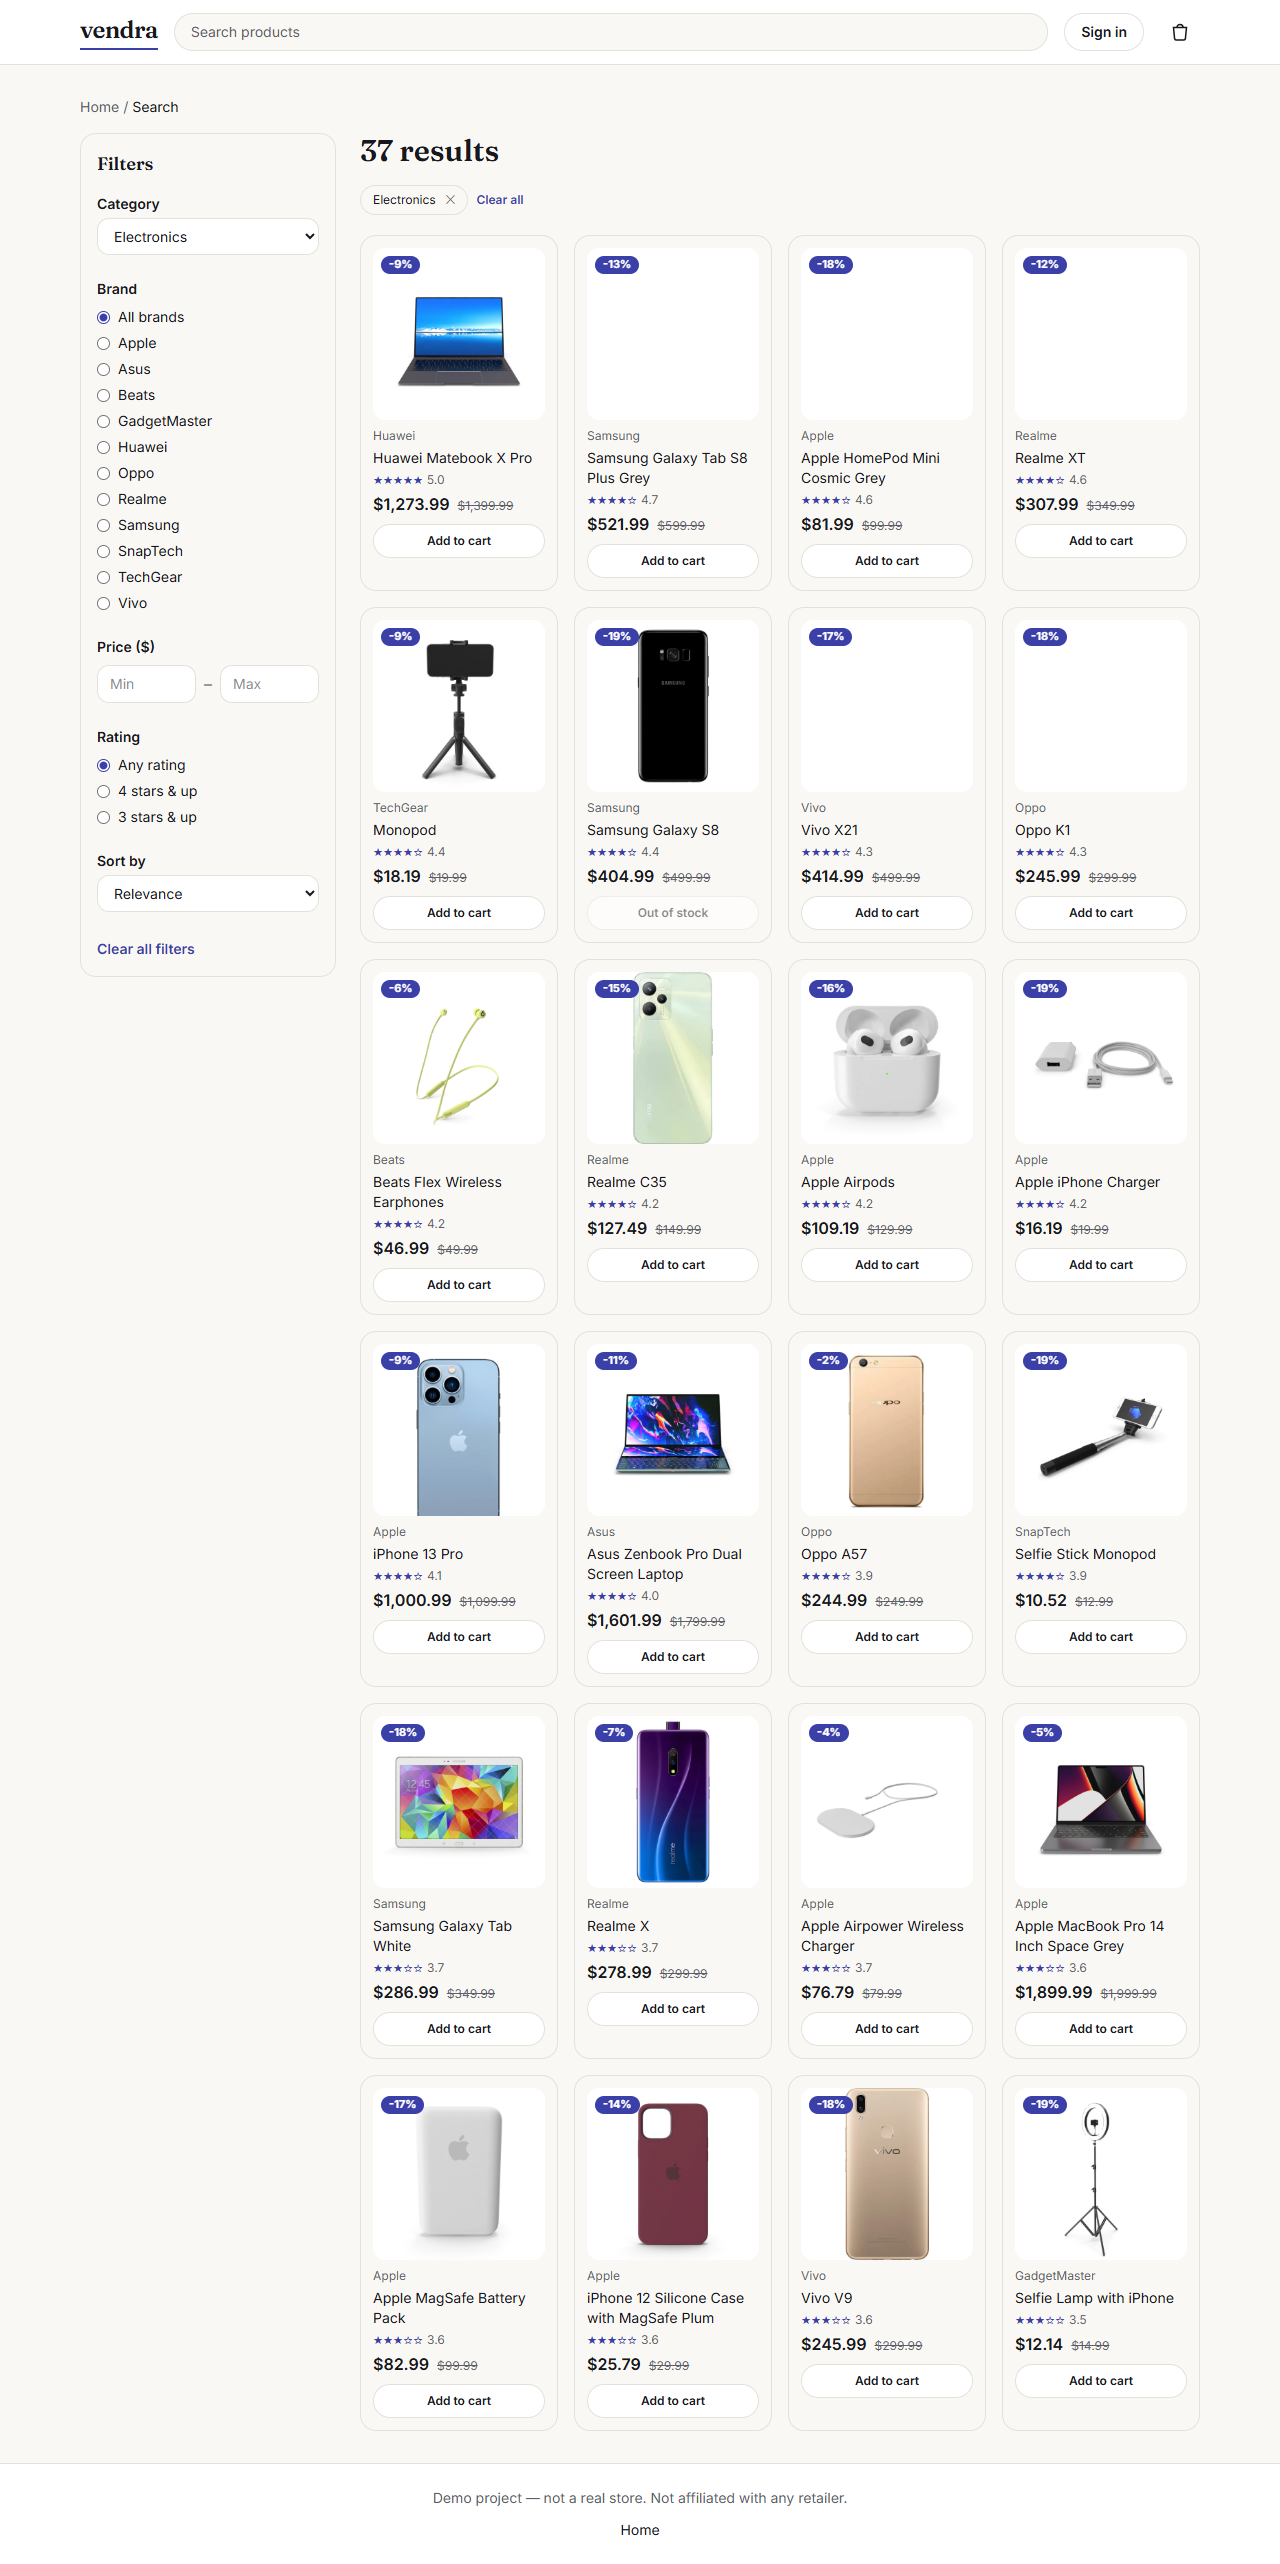
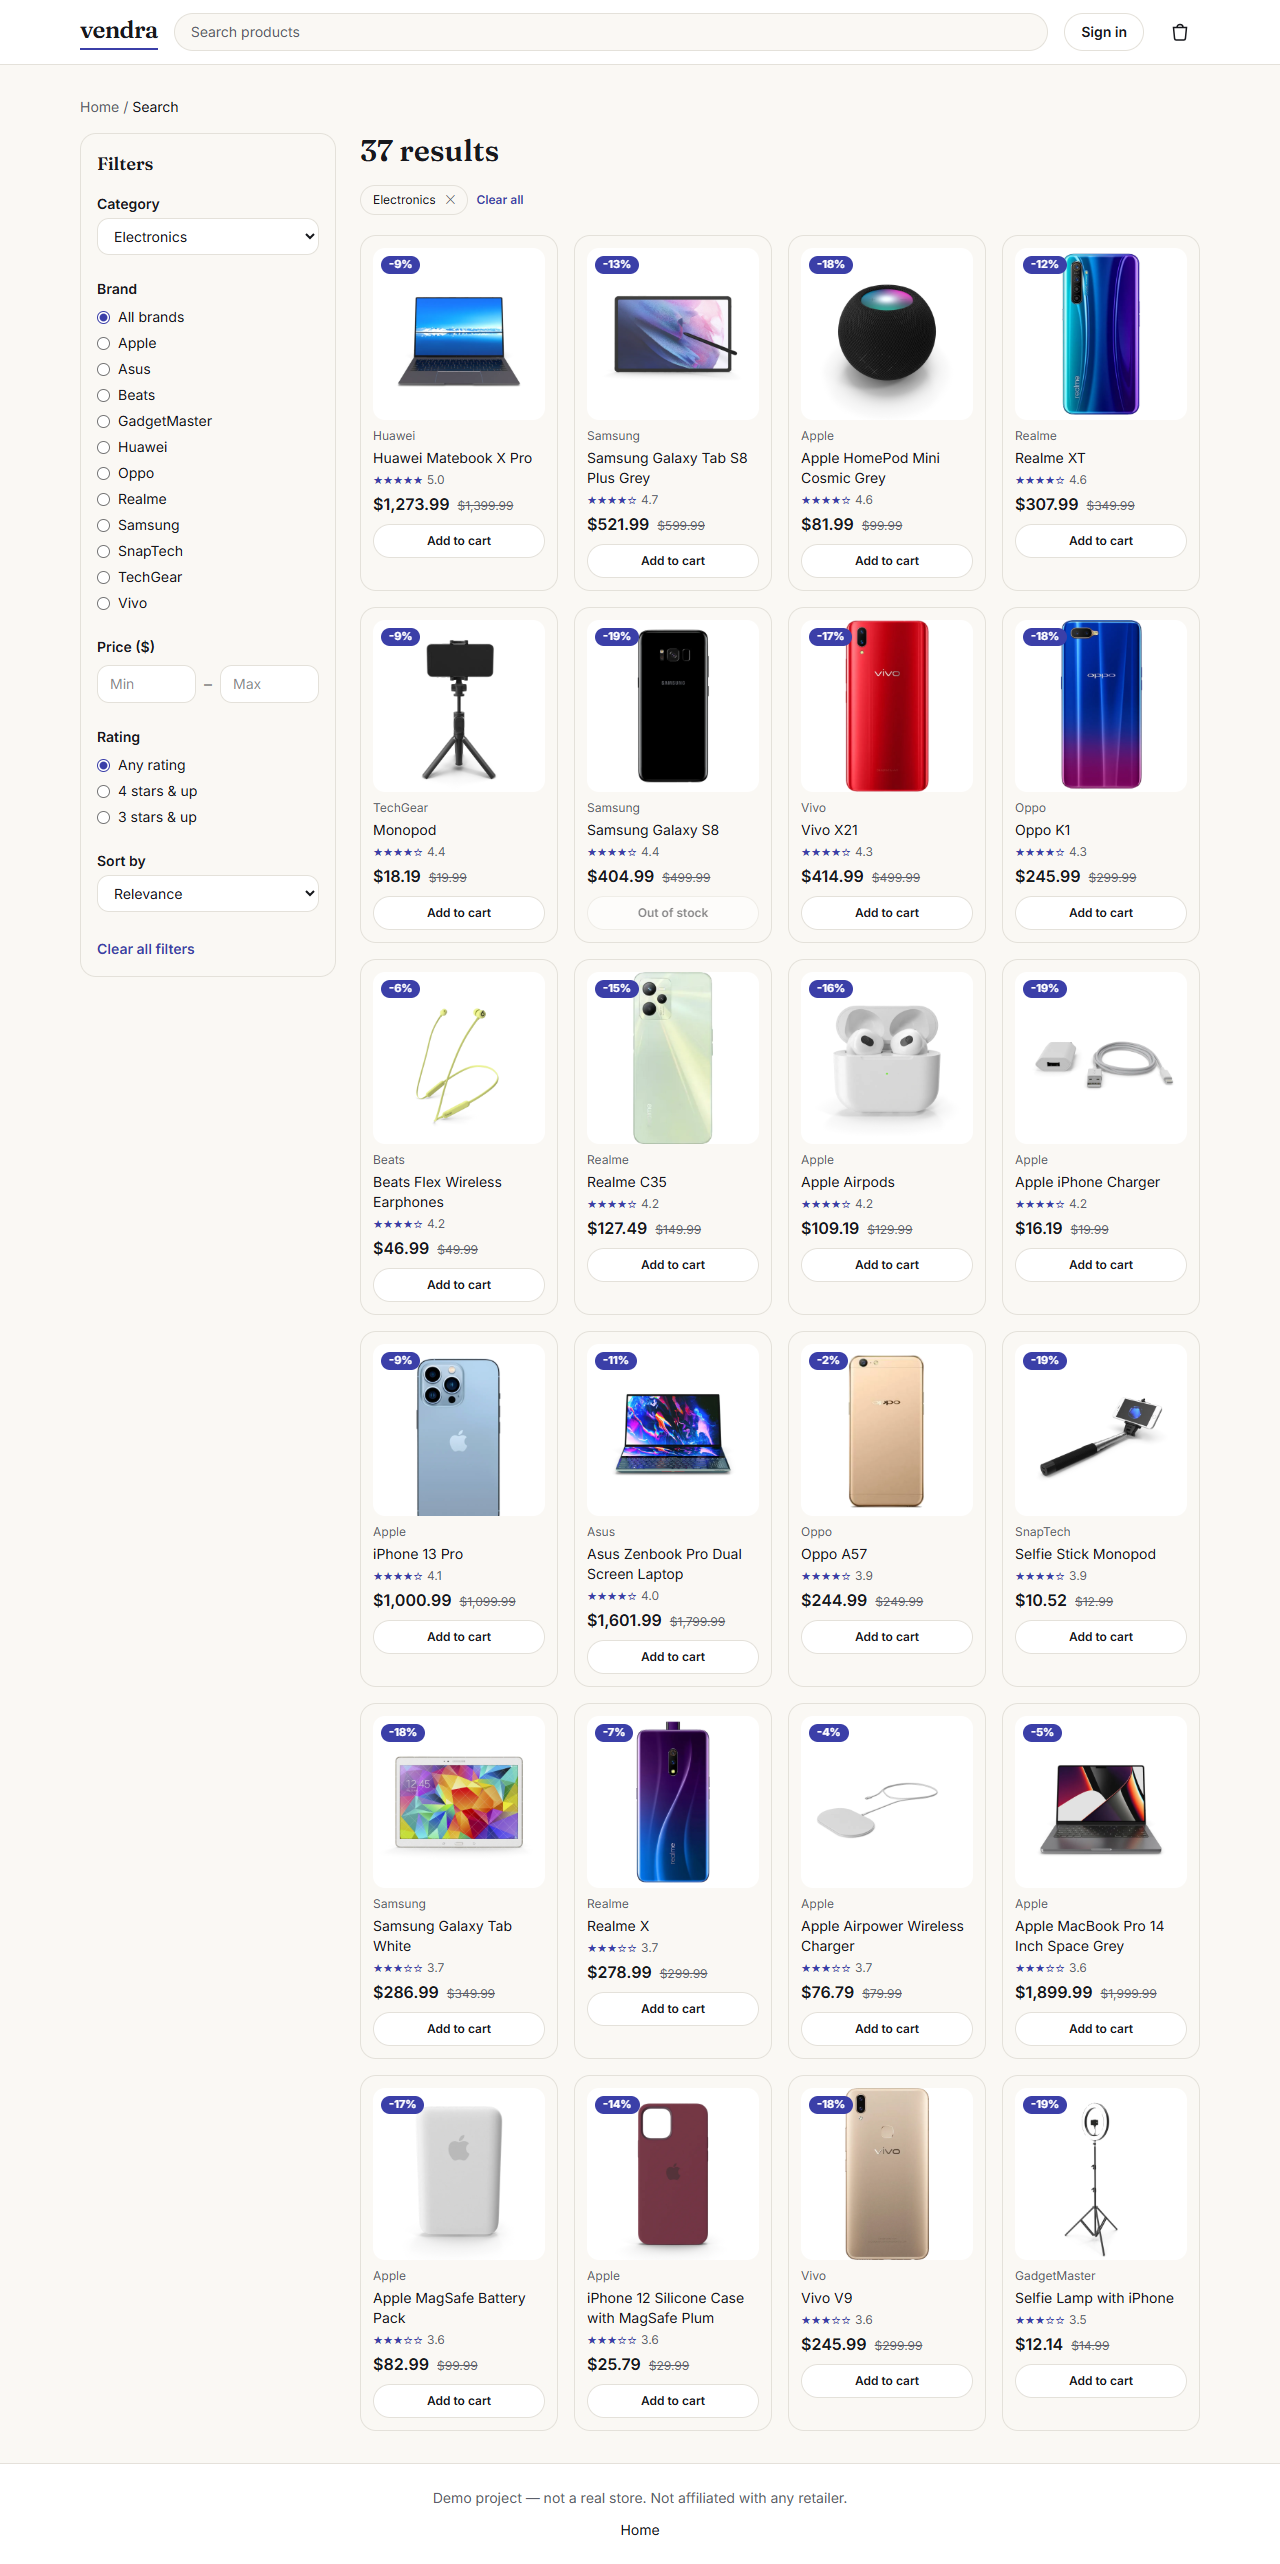
docs: slice 5 part 4 + session wrap progress, refreshed evidence

diff --git a/docs/progress.md b/docs/progress.md
@@ -51,6 +51,10 @@ Slice 5 session — Part 3 notes (2026-10-03): category page rebuilt on top of S
 
 Part 3 plumbing: `lib/search.ts` gained `cat` (charset-guarded) + `deals=1` params, a `discount` sort in the parse/ORDERS whitelist, and `buildSearchUrl(parsed, base="/search", defaultSort="relevance")` — the search page keeps its original five sort options (`SEARCH_SORTS`), the category page its own five with `rating`→"Top rated". Verification: typecheck 0, vitest **76/76**, build clean, smoke (`npm run start` + curl): `/c/electronics` 200 with chips row + rail, filtered variant 200 (rail correctly hidden), `brand=Apple` → 14, `deals=1` → 180, `/search` regression 183. **Next action:** Part 4 — home page.
 
+Slice 5 session — Part 4 notes (2026-10-03): home page rebuilt — typographic hero (warm `bg-paper` band, serif headline "What you see is what you pay.", one Browse button → `#shop-by-category`, "no surprises" promise), trust strip grounded in real values (`FREE_SHIPPING_CENTS` → "$35", full totals before checkout, cancel-while-placed policy from spec §orders), category tiles now show **real per-group product counts** (single membership query, deduped by product id), rails: Top rated (`/search?sort=rating`) + Deals (`/search?deals=1`) + one per nav group (`/c/{slug}`), all horizontal-scroll with "See all" links; `getHomeData` now returns `{groupTiles, topRated, deals, groupRails}` via shared `toCardData`; `HomeSkeleton` updated to match (hero, trust, tiles, scroll rail); lazy images unchanged (next/image default). Verification: typecheck 0, vitest **76/76** (one transient live-DB flake observed once, green on immediate re-runs), build OK.
+
+Session wrap — **honest state**: the one final e2e run of this slice was **aborted by the owner mid-run** (it had only refreshed Phase A/D screenshots); last **complete** matrix remains **66/66 after Part 2**. Parts 3–4 are covered by typecheck/vitest/build/live-smoke only. **Pending before Slice 6:** run `npm run e2e` once (Phases G+H are already written: category chips/sort/deals/brand/rail/pagination/not-found + home hero/trust/tiles/rails/390-no-scroll and the final evidence shots `06-home*.png`, `07-category*.png`, `08-product*.png` — only `05-cart*.png` exist today), then owner reviews screenshots. **Next action:** Slice 6 (checkout) after that run.
+
 ## Open items
 
 - **OPEN QUESTION** pain points: ~~owner to add own entries to `spec.md` §7.1~~ — owner's pain points
